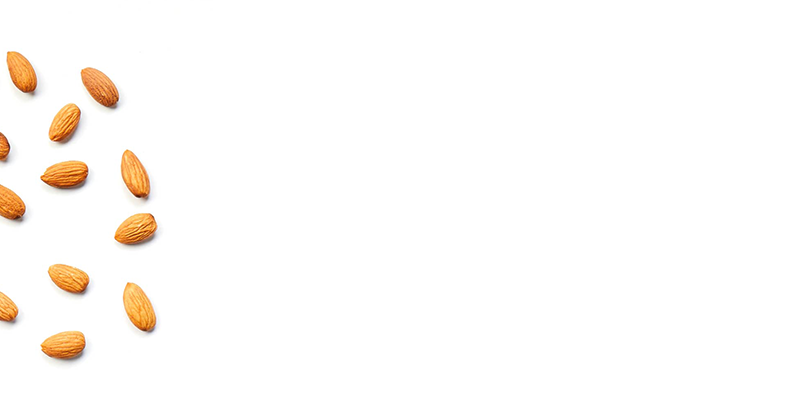
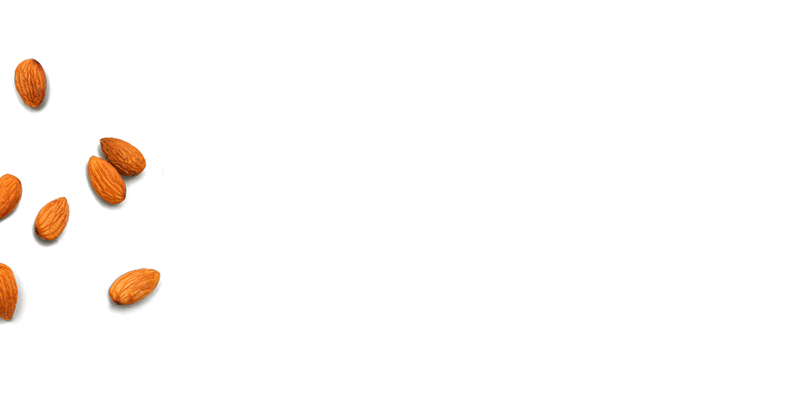
Update the almonds image on the Craft page inter-page nav module (#269)
Closes BLUED-109

diff --git a/client/src/components/RelatedPageLink/index.js b/client/src/components/RelatedPageLink/index.js
@@ -26,7 +26,7 @@ export default class RelatedPageLink extends Component {
         } = this.props;
 
         const style = {
-            backgroundImage: `url(${backgroundImage && backgroundImage})`
+            backgroundImage: `url(${backgroundImage})`
         };
 
         return (
